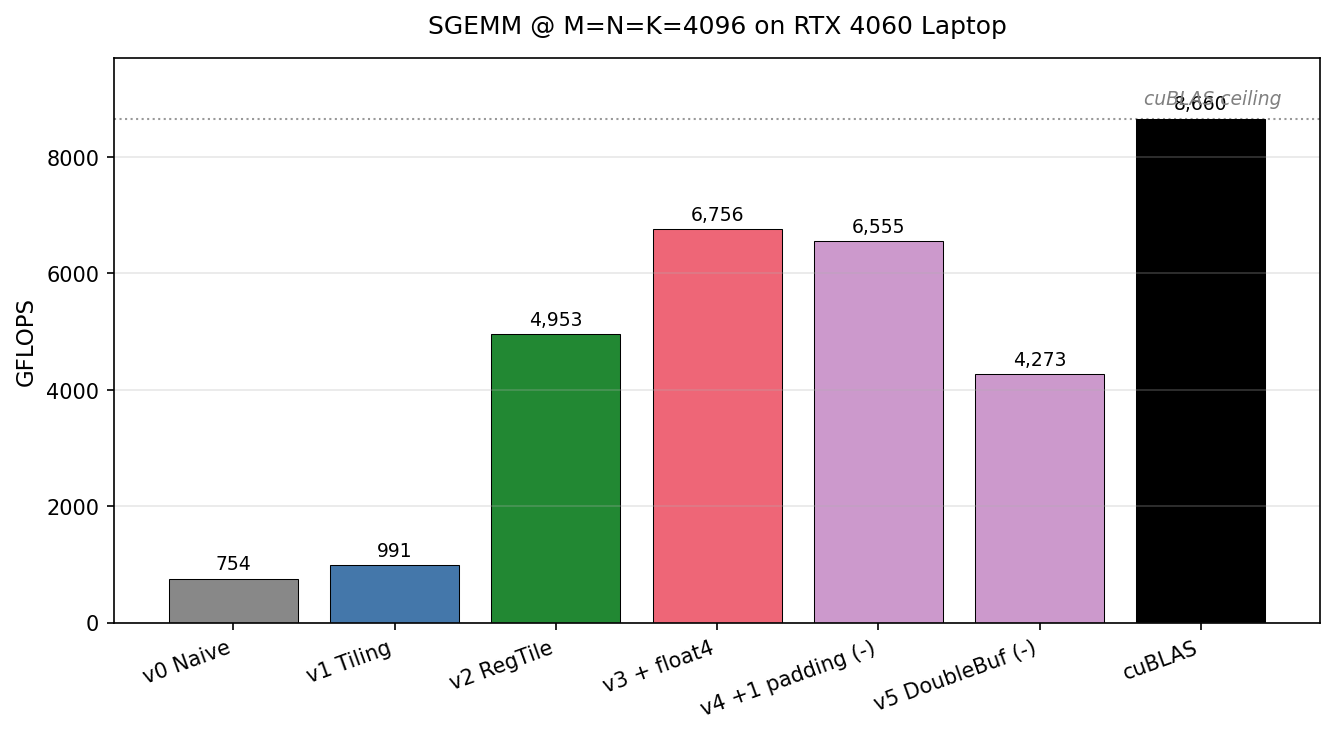
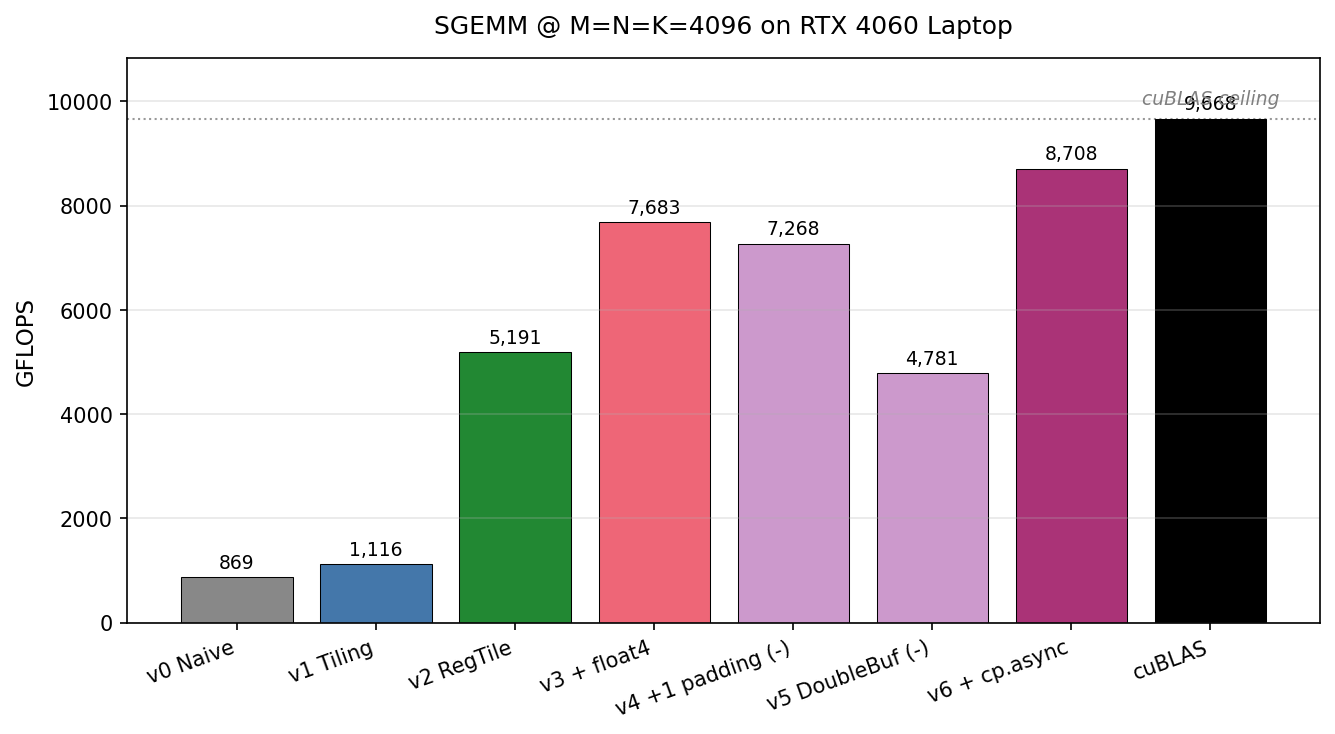
Update README + figures for v6 cp.async
Add v6 to the performance table and charts (one consistent 4096 run:
8708 GFLOPS, 90% of cuBLAS, 10x over naive). Document that the speedup
comes from cp.async latency hiding, not occupancy. Mark cp.async done
and a swizzled-layout v7 as the next step.

diff --git a/scripts/plot_results.py b/scripts/plot_results.py
@@ -11,7 +11,8 @@ Outputs:
     docs/figures/speedup_bars.png        (bar chart: speedup vs naive at N=4096)
 
 Numbers below come from the most recent full-power benchmark run on
-RTX 4060 Laptop (sm_89), CUDA 12.4, alpha=1, beta=0, 10 timed iterations.
+RTX 4060 Laptop (sm_89), CUDA 12.4, alpha=1, beta=0, 10 timed iterations
+(2026-05-21 run, includes v6 cp.async).
 Update this dict when you re-run benchmarks.
 """
 
@@ -26,13 +27,14 @@ from pathlib import Path
 SIZES = [512, 1024, 2048, 4096]
 
 RESULTS = {
-    "v0 Naive":          [664.9,  706.2,  859.5,  754.5],
-    "v1 Tiling":         [846.7,  740.4, 1062.3,  990.6],
-    "v2 RegTile":        [2386.8, 3316.6, 5640.7, 4953.0],
-    "v3 + float4":       [2746.3, 4084.7, 7863.3, 6755.9],
-    "v4 +1 padding (-)": [2680.9, 3444.1, 7372.2, 6554.6],
-    "v5 DoubleBuf (-)":  [2832.5, 3265.1, 5835.6, 4273.1],
-    "cuBLAS":            [4920.6, 4855.9, 9618.4, 8659.9],
+    "v0 Naive":          [674.6,  709.3,  985.7,  868.6],
+    "v1 Tiling":         [821.1,  906.1, 1247.4, 1116.3],
+    "v2 RegTile":        [2340.7, 3781.7, 5643.8, 5191.3],
+    "v3 + float4":       [2724.5, 4885.6, 7892.1, 7682.8],
+    "v4 +1 padding (-)": [2667.5, 4629.2, 7403.7, 7268.5],
+    "v5 DoubleBuf (-)":  [2819.4, 4193.6, 5819.2, 4780.6],
+    "v6 + cp.async":     [3777.3, 5537.7, 8410.5, 8707.6],
+    "cuBLAS":            [4983.1, 6322.7, 9669.8, 9668.0],
 }
 
 # Color scheme: positive optimizations bright, negative results muted
@@ -40,9 +42,10 @@ COLORS = {
     "v0 Naive":          "#888888",
     "v1 Tiling":         "#4477aa",
     "v2 RegTile":        "#228833",
-    "v3 + float4":       "#ee6677",   # headline
+    "v3 + float4":       "#ee6677",   # float4 milestone
     "v4 +1 padding (-)": "#cc99cc",   # muted (negative)
     "v5 DoubleBuf (-)":  "#cc99cc",   # muted (negative)
+    "v6 + cp.async":     "#aa3377",   # headline (best)
     "cuBLAS":            "#000000",
 }
 
@@ -53,6 +56,7 @@ LINESTYLES = {
     "v3 + float4":       "-",
     "v4 +1 padding (-)": "--",
     "v5 DoubleBuf (-)":  "--",
+    "v6 + cp.async":     "-",
     "cuBLAS":            ":",
 }
 

diff --git a/README.md b/README.md
@@ -4,9 +4,9 @@
 
 A step-by-step optimization study of single-precision matrix multiplication (SGEMM) on NVIDIA Ada Lovelace, written from scratch and benchmarked against cuBLAS.
 
-This is a **learning project**: each kernel does just one optimization (shared-memory tiling, register tiling, vectorized loads, bank-conflict avoidance, double buffering), so the impact of every step can be attributed individually with Nsight Compute metrics.
+This is a **learning project**: each kernel does just one optimization (shared-memory tiling, register tiling, vectorized loads, bank-conflict avoidance, double buffering, async copy), so the impact of every step can be attributed individually with Nsight Compute metrics.
 
-v4 and v5 are **two optimizations that didn't pan out** — well-known wins on older architectures, but they regress on Ada (sm_89). They stay in the repo because the failure modes themselves are worth understanding.
+v4 and v5 are **two optimizations that didn't pan out** — well-known wins on older architectures, but they regress on Ada (sm_89). They stay in the repo because the failure modes themselves are worth understanding. v6 then adds `cp.async` and becomes the fastest kernel — but the *reason* it wins (latency hiding, not the occupancy recovery you'd expect) is the most interesting result here.
 
 ![Performance bars at N=4096](docs/figures/performance_bars.png)
 
@@ -16,15 +16,16 @@ v4 and v5 are **two optimizations that didn't pan out** — well-known wins on o
 
 | Kernel | GFLOPS @ M=N=K=4096 | Speedup vs Naive | % of cuBLAS |
 |---|---:|---:|---:|
-| v0 — Naive | 754 | 1.00× | 8.7% |
-| v1 — Shared-memory tiling | 990 | 1.31× | 11.4% |
-| **v2 — Register tiling** | 4,953 | **6.57×** | 57.2% |
-| **v3 — + float4 vectorized loads** ⭐ | **6,756** | **8.96×** | **78.0%** |
-| v4 — + 1-padding (negative result) | 6,555 | 8.69× | 75.7% |
-| v5 — Double buffering (negative result) | 4,273 | 5.66× | 49.3% |
-| cuBLAS (Tensor Core, autotuned) | 8,660 | 11.48× | 100% |
+| v0 — Naive | 869 | 1.00× | 9.0% |
+| v1 — Shared-memory tiling | 1,116 | 1.29× | 11.5% |
+| v2 — Register tiling | 5,191 | 5.98× | 53.7% |
+| v3 — + float4 vectorized loads | 7,683 | 8.85× | 79.5% |
+| v4 — + 1-padding (negative result) | 7,268 | 8.37× | 75.2% |
+| v5 — Double buffering (negative result) | 4,781 | 5.50× | 49.4% |
+| **v6 — + cp.async pipeline** ⭐ | **8,708** | **10.02×** | **90.1%** |
+| cuBLAS (Tensor Core, autotuned) | 9,668 | 11.13× | 100% |
 
-Best handwritten kernel reaches **78% of cuBLAS** in pure FP32 SIMT. The remaining gap to cuBLAS is Tensor Core / TF32 dispatch and template-based autotuning — both out of scope here.
+Best handwritten kernel (**v6, cp.async**) reaches **90% of cuBLAS** in pure FP32 SIMT. The remaining gap is Tensor Core / TF32 dispatch and template-based autotuning — both out of scope here. The surprise: v6's gain is **latency hiding, not occupancy** — explained in the v6 section below.
 
 ---
 
@@ -52,9 +53,10 @@ All kernels share the same launch convention: `C = α · A·B + β · C` with ro
 | v0 | `kernels/sgemm_v0_naive.cuh` | One thread per output element; full K-loop directly from global memory. | baseline |
 | v1 | `kernels/sgemm_v1_tiling.cuh` | Shared-memory tile (TILE=32); cooperative loading; classic blocked matmul. | +30% over v0 |
 | v2 | `kernels/sgemm_v2_register_tile.cuh` | 8×8 output tile per thread; BM=BN=128, BK=8; **scalar** global → shared loads. 64 register accumulators enable ILP across independent FMAs. | **5.0× over v1** |
-| v3 | `kernels/sgemm_v3_vectorized.cuh` | v2 + `float4` vectorized global → shared loads (128-bit LDG). Halves load instruction count. | **1.36× over v2**, headline result |
+| v3 | `kernels/sgemm_v3_vectorized.cuh` | v2 + `float4` vectorized global → shared loads (128-bit LDG). Halves load instruction count. | **1.36× over v2**, float4 milestone |
 | v4 | `kernels/sgemm_v4_bank_conflict_free.cuh` | v3 + `+1` shared-memory padding to break shared-bank conflict pattern. | **−3% on Ada** (negative) |
 | v5 | `kernels/sgemm_v5_double_buffer.cuh` | v3 + double-buffered shared tiles to overlap global load with compute. | **−37% on Ada** (negative) |
+| v6 | `kernels/sgemm_v6_cpasync.cuh` | v3 compute core + `cp.async` (`cuda::memcpy_async` + thread-scope `cuda::pipeline`) on the global→shared load path; 2-stage double buffer. | **+13% over v3**, best result (90% cuBLAS) |
 
 ### Why v4 regresses on Ada
 
@@ -62,7 +64,24 @@ The `+1` padding shifts shared-memory row stride from 16-byte aligned (8 / 128 f
 
 ### Why v5 regresses on Ada
 
-Software double buffering doubles per-block shared memory (8 KB → 16 KB), halving the concurrent blocks per SM and cutting occupancy. Without hardware-async copy (`cp.async`, sm_80+), nvcc can only do limited load/compute overlap between two software-managed buffers. The occupancy loss outweighs the latency hidden. The natural follow-up is `cp.async` + multi-stage pipeline — left for a follow-up project.
+Software double buffering doubles per-block shared memory (8 KB → 16 KB), halving the concurrent blocks per SM and cutting occupancy. Without hardware-async copy (`cp.async`, sm_80+), nvcc can only do limited load/compute overlap between two software-managed buffers. The occupancy loss outweighs the latency hidden. The natural follow-up is `cp.async` + multi-stage pipeline — implemented as **v6 below**, with a result that overturns the occupancy hypothesis.
+
+### Why v6 (cp.async) wins — and why the reason is surprising
+
+v6 keeps v3's compute core unchanged and only swaps the global→shared load path to `cuda::memcpy_async` (lowering to `cp.async` / LDGSTS on sm_80+), driven by a thread-scope `cuda::pipeline` with a 2-stage buffer.
+
+The hypothesis going in was that cp.async would **recover the occupancy** v5 lost, by removing the register-resident prefetch staging. Nsight Compute says that is **not** what happened:
+
+| Metric @ 4096 | v3 | v5 | v6 |
+|---|---:|---:|---:|
+| registers / thread | 128 | 149 | 157 |
+| achieved occupancy | 33.0% | 16.7% | **16.6%** |
+| shared bank conflicts | 268 M | 268 M | 268 M |
+| `long_scoreboard` stall | 1.66 | 1.88 | **0.075** |
+
+v6's occupancy is **identical to v5's** (16.6%) and its register count is actually *higher* — the occupancy thesis failed outright. What won instead was **latency hiding**: cp.async overlaps the global→shared transfer with compute, collapsing the `long_scoreboard` (global-memory wait) stall from 1.88 to ~0.075.
+
+Because v5 and v6 have **the same occupancy and the same bank conflicts**, the +82% jump from v5 → v6 is attributable almost entirely to that overlap. The lesson: `cp.async` provides **two independent benefits — register-bypass (→ occupancy) and async overlap (→ latency hiding)** — and on this kernel only the second one materialized. Low occupancy is not fatal when the latency it would have hidden is hidden another way. The bottleneck has now shifted from global-memory latency to the **shared-memory bank conflicts** (still 268 M) — the target for a future swizzled-layout v7.
 
 ---
 
@@ -128,7 +147,10 @@ For GUI inspection, open `.ncu-rep` files in Nsight Compute on Windows / Linux d
 │   ├── sgemm_v2_register_tile.cuh
 │   ├── sgemm_v3_vectorized.cuh
 │   ├── sgemm_v4_bank_conflict_free.cuh
-│   └── sgemm_v5_double_buffer.cuh
+│   ├── sgemm_v5_double_buffer.cuh
+│   └── sgemm_v6_cpasync.cuh
+├── tests/
+│   └── test_v6_correctness.cu                # v6 correctness vs cuBLAS
 ├── include/
 │   └── common.cuh                            # CUDA_CHECK / CUBLAS_CHECK, GpuTimer, gflops()
 ├── nsight_reports/                           # .ncu-rep per version, archived
@@ -144,7 +166,7 @@ For GUI inspection, open `.ncu-rep` files in Nsight Compute on Windows / Linux d
 Known but not done in this project:
 
 - **Tensor Core / WMMA / `mma.sync`** — the main reason cuBLAS is faster on this device. FP16/TF32 paths are a separate project.
-- **`cp.async`** (sm_80+ asynchronous global → shared copy) — the proper hardware-async double buffer that would likely turn v5 into a positive result.
+- **Swizzled shared layout (v7)** — XOR-permuted column addresses to remove the 268 M shared-bank conflicts that are now v6's dominant bottleneck. Planned next.
 - **Warp specialization** (producer / consumer split inside one CTA).
 - **Template-based autotuning** — searching the (BM, BN, BK, TM, TN) space per (M, N, K, sm_xx) at compile or runtime.
 
